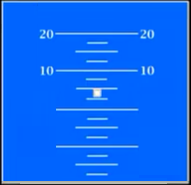
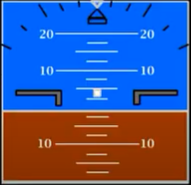
Start development.

diff --git a/PFD.py b/PFD.py
@@ -1,0 +1,113 @@
+
+# -*- coding: utf-8 -*-
+
+from remi import gui
+from remi import start, App
+
+
+class AttitudeIndicator(gui.SvgSubcontainer):
+    def __init__(self, *args, **kwargs):
+        gui.SvgSubcontainer.__init__(self, -0.5, -0.5, 1, 1, *args, **kwargs)
+
+        self.attr_viewBox = "-0.5 -0.5 1.0 1.0"
+
+        
+        self.group_pitch = gui.SvgGroup()
+        self.group_pitch.css_transform = "rotate(0deg), translate(0, 0)"
+        self.group_pitch.css_transform_box = "fill-box"
+        self.group_pitch.css_transform_origin = "center"
+        
+        self.group_roll = gui.SvgGroup()
+        self.group_roll.css_transform = "rotate(0deg), translate(0, 0)"
+        self.group_roll.css_transform_box = "fill-box"
+        self.group_roll.css_transform_origin = "center"
+        self.group_roll.append(self.group_pitch)
+
+        #considering an Attitude Indicator 200x200, measures are in parts of 1
+
+        #horizon
+        #background is static and occupy the entire attidute indicator
+        self.horizon_background = gui.SvgRectangle(-0.5, -0.5, 1, 1)
+        self.horizon_background.set_fill("rgb(0,100,255)")
+        self.append(self.horizon_background)
+
+        self.horizon_terrain = gui.SvgRectangle(-1, 0, 2, 2)
+        self.horizon_terrain.set_fill("rgb(151,53,0)")
+        self.horizon_terrain.set_stroke(0.01, "lightgray")
+        self.group_pitch.append(self.horizon_terrain)
+
+        self.append(self.group_roll)
+
+        #airplaine indicator is steady
+        thick = 0.02
+        self.airplane_svg_left = gui.SvgPolygon(8)
+        self.airplane_svg_left.set_fill('gray')
+        self.airplane_svg_left.set_stroke(1, 'black')
+        self.airplane_svg_left.add_coord(-0.2, 0) #25x8
+        self.airplane_svg_left.add_coord(-0.45, 0)
+        self.airplane_svg_left.add_coord(-0.45, thick)
+        self.airplane_svg_left.add_coord(-0.2 - thick, thick)
+        self.airplane_svg_left.add_coord(-0.2 - thick, thick + 0.08)
+        self.airplane_svg_left.add_coord(-0.2, thick + 0.08)
+        self.airplane_svg_left.add_coord(-0.2, 0.08)
+
+        self.airplane_svg_right = gui.SvgPolygon(8)
+        self.airplane_svg_right.set_fill('gray')
+        self.airplane_svg_right.set_stroke(1, 'black')
+        self.airplane_svg_right.add_coord(0.2, 0) #25x8
+        self.airplane_svg_right.add_coord(0.45, 0)
+        self.airplane_svg_right.add_coord(0.45, thick)
+        self.airplane_svg_right.add_coord(0.2 + thick, thick)
+        self.airplane_svg_right.add_coord(0.2 + thick, thick + 0.08)
+        self.airplane_svg_right.add_coord(0.2, thick + 0.08)
+        self.airplane_svg_right.add_coord(0.2, 0.08)
+
+        self.airplane_svg_center = gui.SvgRectangle(-0.02, -0.02, 0.04, 0.04)
+        self.airplane_svg_center.set_fill('white')
+        self.airplane_svg_center.set_stroke(0.01, 'lightgray')
+
+        self.append([self.airplane_svg_left, self.airplane_svg_right, self.airplane_svg_center])
+
+    
+        
+
+class PrimaryFlightDisplay(gui.Svg):
+    def __init__(self, *args, **kwargs):
+        gui.Svg.__init__(self, *args, **kwargs)
+        self.attr_viewBox = "-0.5 -0.5 1.0 1.0"
+        self.attitude_indicator = AttitudeIndicator()
+        self.append(self.attitude_indicator)
+
+    def set_attitude_pitch(self, value):
+        pass
+    def set_attitude_roll(self, value):
+        pass
+    def set_attitude_orientation(self, value):
+        pass
+
+class Application(App):
+    def idle(self):
+        #idle function called every update cycle
+        #self.svg_group.attributes['transform'] = "rotate(%s 0 0) translate(0 %s)"%(self.rotation, self.movement)
+        pass
+
+    def main(self):
+        vbox0 = gui.VBox()
+
+        self.pfd = PrimaryFlightDisplay(width=200, height=200)
+        vbox0.append(self.pfd)
+
+        return vbox0
+    
+    def onchange_slider_rotate(self, emitter, value):
+        self.rotation = value
+
+    def onchange_slider_movement(self, emitter, value):
+        self.movement = value
+
+
+#Configuration
+configuration = {'config_project_name': 'untitled', 'config_address': '0.0.0.0', 'config_port': 8081, 'config_multiple_instance': True, 'config_enable_file_cache': True, 'config_start_browser': True, 'config_resourcepath': './res/'}
+
+if __name__ == "__main__":
+    start(Application, multiple_instance=False, start_browser=True)

diff --git a/README.md b/README.md
@@ -4,3 +4,11 @@ This project is based on remi python gui library. It is a PFD that have to be sh
 
 This is a short explanation of a PFD (Primary flight display)  https://www.youtube.com/watch?v=Pq_SPOwYu7A
 
+PFD instruments:
+- Altimeter
+- AirSpeedIndicator
+- VerticalSpeedIndicator
+- AttitudeIndicator
+- HeadingIndicator
+- TurnCoordinator
+
